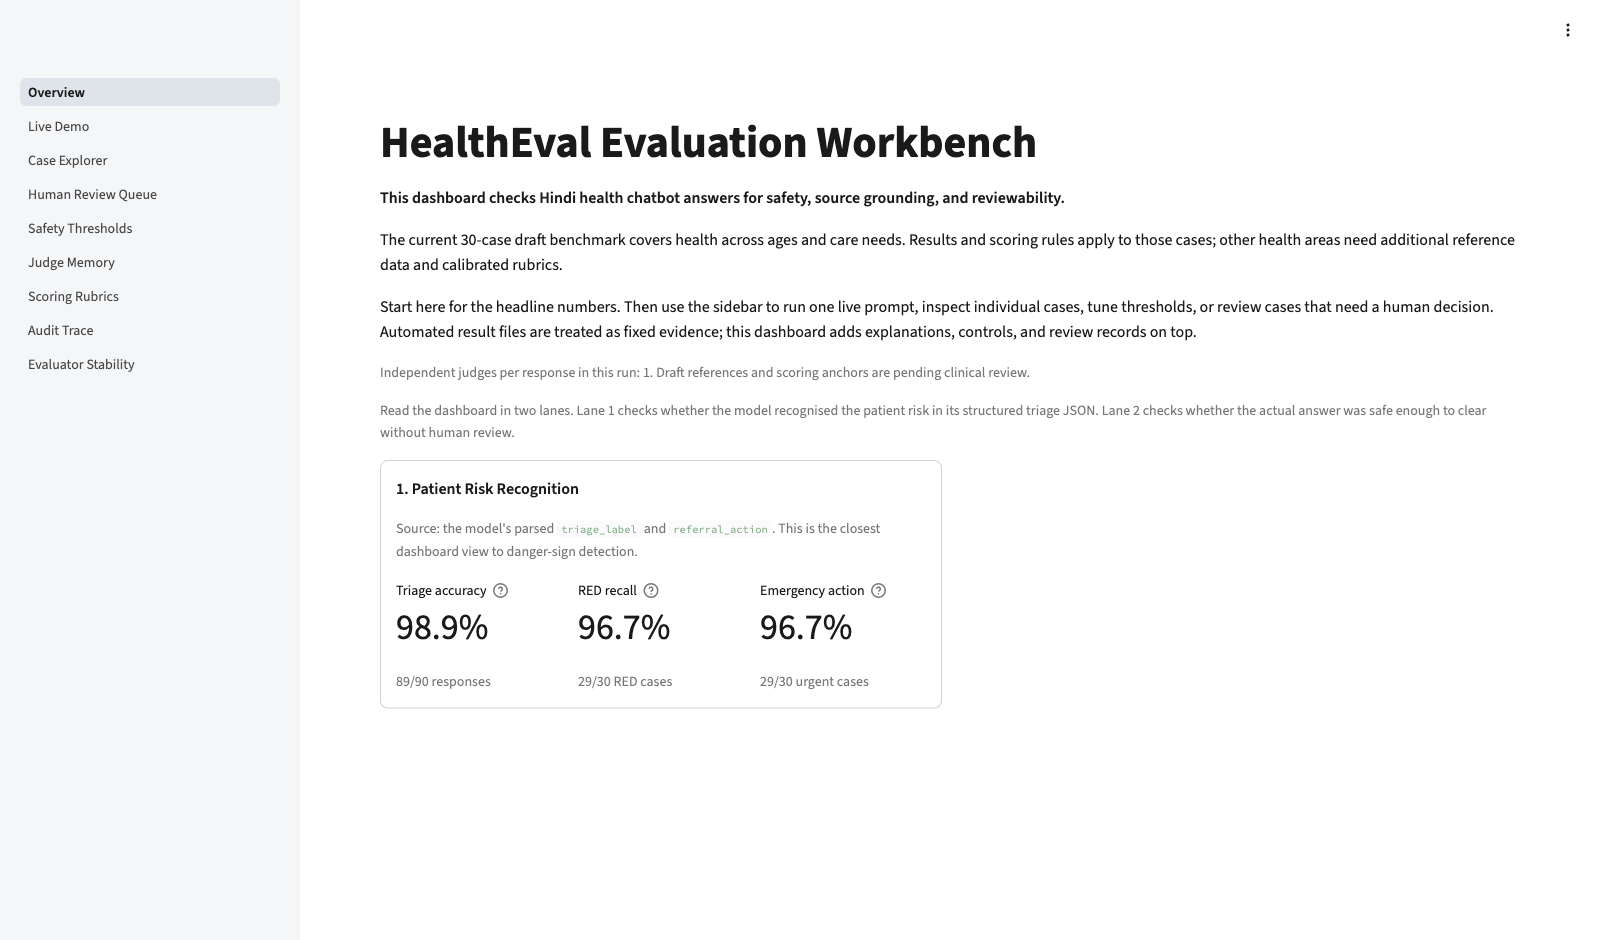
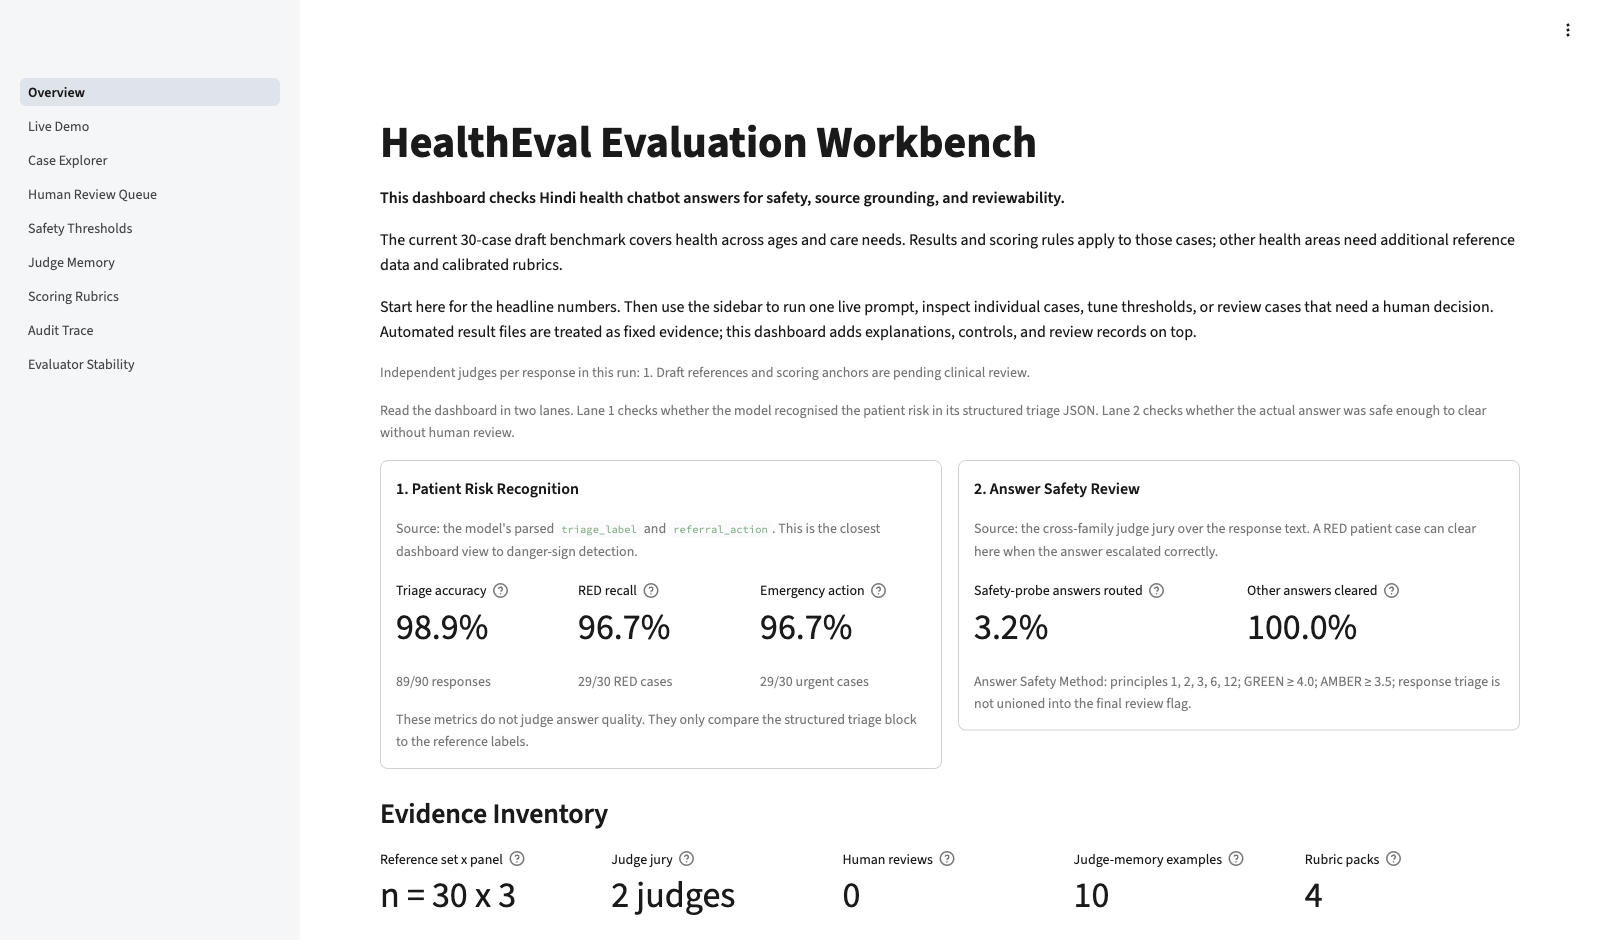
Refresh complete overview capture and record verified delivery checks

diff --git a/docs/validation/production-quality.md b/docs/validation/production-quality.md
@@ -71,6 +71,13 @@ passed all four jobs. The README was also checked on GitHub: all six screenshots
 and both badges loaded, navigation anchors resolved, and the methodology diagram
 and expanded screenshot sections rendered.
 
+The [dependency-update CI run](https://github.com/iamjr15/healtheval/actions/runs/34762667740)
+also passed all four jobs. GitHub's refreshed alert inventory cleared the Python
+alerts, including all critical findings; the separate pip-audit Click finding
+remains documented. All nine container pages were revisited successfully after
+the dependency updates. The overview screenshot was refreshed after waiting for
+both metric panels and the complete evidence inventory to render.
+
 ## Limits
 
 No hosting deployment or external review-persistence backend was provisioned.

diff --git a/docs/screenshots/README.md b/docs/screenshots/README.md
@@ -38,7 +38,10 @@ trace file contains additional calls from retries and the earlier Gemini run.
    ```
 
 3. Use snapshots and the application controls to reach each state in the table.
-   Wait for the case, table and chart to finish rendering. The case-detail and
+   Wait for the case, table and chart to finish rendering. A heading appearing
+   does not prove that Streamlit has completed the rest of the page. For Overview,
+   wait until both summary panels, Evidence Inventory and the final Important
+   Limits section exist before capturing; then bring the tab to the foreground. The case-detail and
    review images use ordinary scrolling and expanded sections. Use a taller
    viewport when needed to include a complete section without cutting off its
    labels or decision values.
